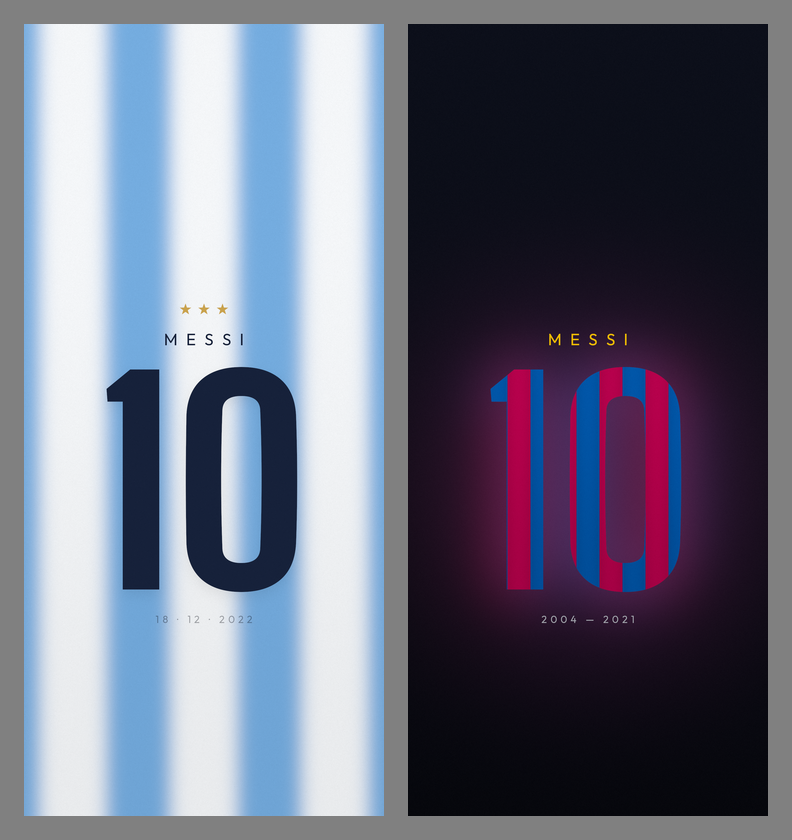
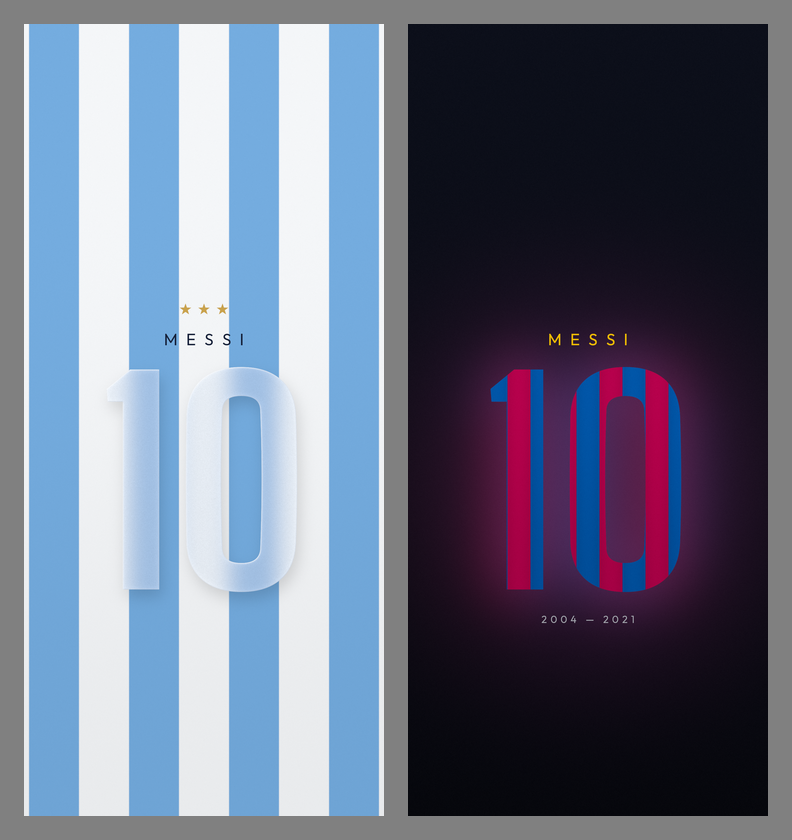
Rework Argentina wallpaper: glass 10, no date
The number is now a frosted glass pane over crisp stripes.

Claude-Session: https://claude.ai/code/session_01DfGbzWpNff5cpXWrUuUtTn

Changed region(s): [[0.0303, 0.031, 0.4848, 0.9905]]

diff --git a/src/w9_albiceleste.py b/src/w9_albiceleste.py
@@ -1,39 +1,57 @@
-"""Albiceleste — Messi's 10 on frosted sky-blue and white stripes, three stars."""
+"""Albiceleste — Messi's 10 as a frosted glass pane over sky-blue and white stripes."""
 import numpy as np
 from common import *
 
 x, y = grid()
 
-# --- stripes, seen through frosted glass ------------------------------------------
+# --- crisp stripes ----------------------------------------------------------------
 celeste, white = hex2lin("#74acdf"), hex2lin("#f4f6f8")
-sw = 262.0  # stripe width; the centre stripe is white
+sw = 200.0  # stripe width; the centre stripe is white
 k = np.floor((x - W / 2) / sw + 0.5)
 stripes = np.where((np.abs(k) % 2 == 1)[..., None], celeste, white)
-stripes = gblur(stripes, 34)
+stripes = gblur(stripes, 1.0)
 # light falls from the top, the cloth dims a little toward the bottom
-img = stripes * (1.0 - 0.10 * smoothstep(0.2 * H, H, y))[..., None]
-rng = np.random.default_rng(9)
-img = img * (1 + 0.02 * gblur(rng.normal(0, 1, (H, W)).astype(np.float32), 0.7))[..., None]
+scene = stripes * (1.0 - 0.10 * smoothstep(0.2 * H, H, y))[..., None]
 
 ink = hex2lin("#16213a")
 gold = hex2lin("#c9a24c")
 cy = H * 0.575
 
-# the number, with a soft shadow so it sits on the glass
 ten = text_mask("10", "BigShoulders-Bold.ttf", 1100, W / 2, cy)
-shadow = gblur(np.roll(ten, (22, 0), (0, 1)), 26)
-img = img * (1 - 0.16 * shadow)[..., None]
-img = over(img, ink, ten)
 
-# name above, tracked wide
+# soft shadow the pane casts on the cloth
+shadow = gblur(np.roll(ten, (30, 12), (0, 1)), 30)
+img = scene * (1 - 0.30 * shadow * (1 - ten))[..., None]
+
+# --- frosted glass inside the number -----------------------------------------------
+glass = gblur(scene, 40)
+glass = mix(glass, hex2lin("#f7fafd"), 0.30) * hex2lin("#f2f6fb")
+rng = np.random.default_rng(9)
+frost = gblur(rng.normal(0, 1, (H, W)).astype(np.float32), 0.7)
+glass = glass * (1 + 0.035 * frost)[..., None]
+# thickness: a soft glow just inside the edges
+inner = np.clip(ten - gblur(ten, 14), 0, 1)
+glass = glass + (inner * 0.12)[..., None]
+img = over(img, glass, ten)
+
+# edge lighting: light comes from the upper-left
+g = gblur(ten, 1.6)
+gy, gx = np.gradient(g)
+mag = np.hypot(gx, gy) + 1e-6
+nx, ny = -gx / mag, -gy / mag            # outward normal
+facing = np.clip(nx * -0.6 + ny * -0.8, 0, 1)
+edge = np.clip(mag * 3.2, 0, 1) * ten
+away = np.clip(-(nx * -0.6 + ny * -0.8), 0, 1)
+# the cut edge refracts: a thin cool line all round, deeper on the shaded side
+img = over(img, hex2lin("#4f6f98"), edge * (0.22 + 0.25 * away))
+# and a bright bevel just inside it on the lit side
+bevel = np.clip((ten - gblur(ten, 3.5)) * 2.2, 0, 1)
+img = over(img, hex2lin("#ffffff"), bevel * (0.2 + 0.8 * gblur(facing * edge, 3) / (gblur(edge, 3) + 1e-3)) * 0.9)
+
+# --- name and the three stars --------------------------------------------------------
 name_y = cy - 450 - 110
 img = over(img, ink, text_mask("MESSI", "Outfit-Regular.ttf", 66, W / 2, name_y, tracking=34))
-
-# three stars: 1978 · 1986 · 2022
-for i in (-1, 0, 1):
+for i in (-1, 0, 1):  # 1978 · 1986 · 2022
     img = over(img, gold, star_mask(W / 2 + i * 74, name_y - 120, 24))
-
-# the night in Lusail, small, under the number
-img = over(img, ink, text_mask("18 · 12 · 2022", "Outfit-Regular.ttf", 40, W / 2, cy + 450 + 110, tracking=14) * 0.6)
 
 save(img, "../wallpapers/09-albiceleste.png", grain=0.006, seed=9)

diff --git a/README.md b/README.md
@@ -12,7 +12,7 @@ Minimal phone wallpapers, 1440×3168. Rendered procedurally with numpy (linear l
 | `06-halftone` | a moon printed as a rotated dot screen |
 | `07-niche` | arched recess in a plaster wall, a band of late sun |
 | `08-field` | two soft colour fields, after Rothko's rust and blue |
-| `09-albiceleste` | Messi's 10 on frosted Argentina stripes, three stars |
+| `09-albiceleste` | Messi's 10 as frosted glass over Argentina stripes, three stars |
 | `10-blaugrana` | Messi's 10 cut from Barça stripes, glowing on night blue |
 
 ![preview](preview.png)
